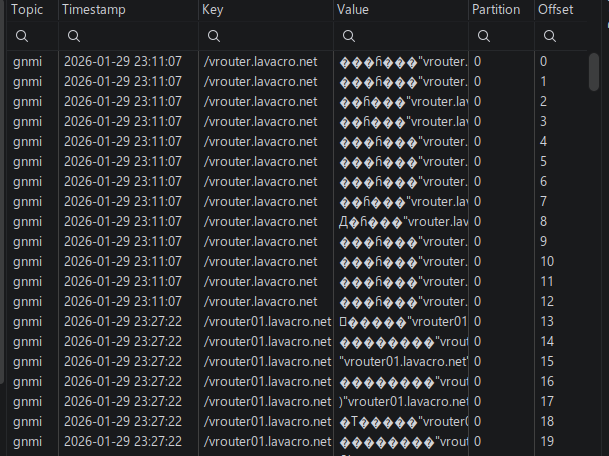
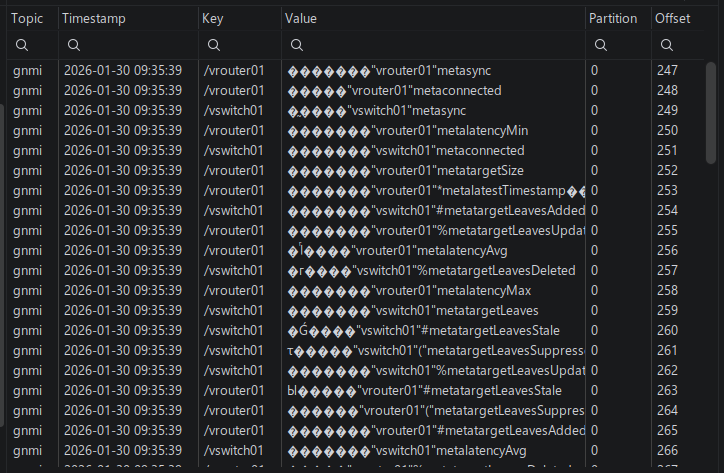
clarified gnmi instructions

diff --git a/ceos/README.md b/ceos/README.md
@@ -104,7 +104,7 @@ ceos-02(config-mgmt-api-gnmi)#transport grpc default
 ceos-02(config-mgmt-api-gnmi)#provider eos-native
 ```
 
-Interacting directly with the devices using Netmiko:
+Sidebar ... if you want to interact directly with the devices using Netmiko:
 
 ```python
 from netmiko import ConnectHandler
@@ -147,6 +147,11 @@ Free memory: 1232352 kB
 
 ## gnmi gateway
 
+First, clone the gnmi-gateway repository and generate TLS certificates.
+Note that the certificates are only necessary if you are running the
+server component of gnmi-gateway. If you only need a client that publishes
+Kafka messages, the TLS step is unnecessary:
+
 ```shell
 $ git clone https://github.com/openconfig/gnmi-gateway.git
 $ cd gnmi-gateway
@@ -156,7 +161,7 @@ openssl req -new -x509 -sha256 -key server.key -out server.crt -days 3650 -subj 
 $ cp targets-example.yaml targets.yaml
 ```
 
-Edit targets.yaml with the actual target devices.
+Ensure you already have Go installed (version 1.20+).  Then:
 
 ```shell
 $ make build
@@ -174,7 +179,7 @@ go: downloading github.com/PuerkitoBio/urlesc v0.0.0-20170810143723-de5bf2ad4578
 gnmi-gateway version v0.12.0-97c850f (Built 2026-01-25T02:11:42Z)
 ```
 
-targets.json
+Edit `targets.json` with the actual target devices.
 
 ```json
 {
@@ -202,7 +207,7 @@ targets.json
   },
   "target": {
     "vrouter01.lavacro.net": {
-      "addresses": ["192.168.3.242:6030"],
+      "addresses": ["vrouter01.lavacro.net:6030"],
       "credentials": {
         "username": "****",
         "password": "****"
@@ -211,7 +216,7 @@ targets.json
       "meta": {"NoTLSVerify": "yes"}
     },
     "vswitch01.lavacro.net": {
-      "addresses": ["192.168.3.243:6030"],
+      "addresses": ["vswitch01.lavacro.net:6030"],
       "credentials": {
         "username": "****",
         "password": "****"
@@ -235,6 +240,6 @@ $ ./gnmi-gateway \
   -ExporterKafkaLogging
 ```
 
-verification:
+Verification (via IntelliJ's Kafka plugin):
 
 ![Kafka-IntelliJ](images/kafka-ij.png)
